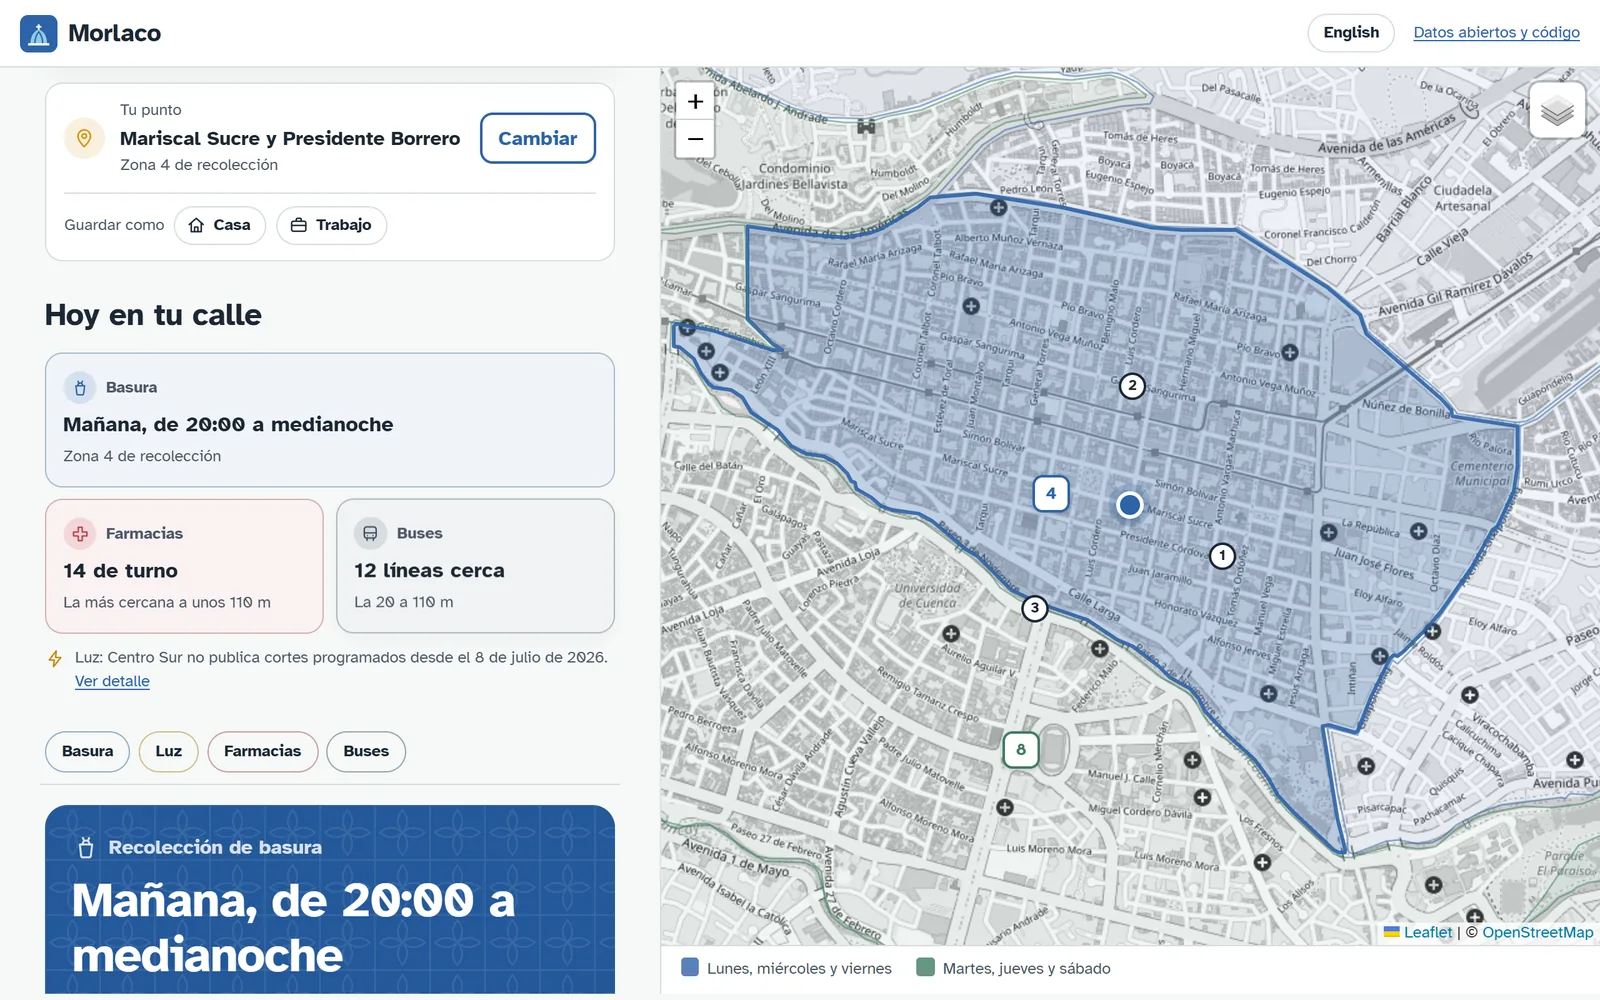
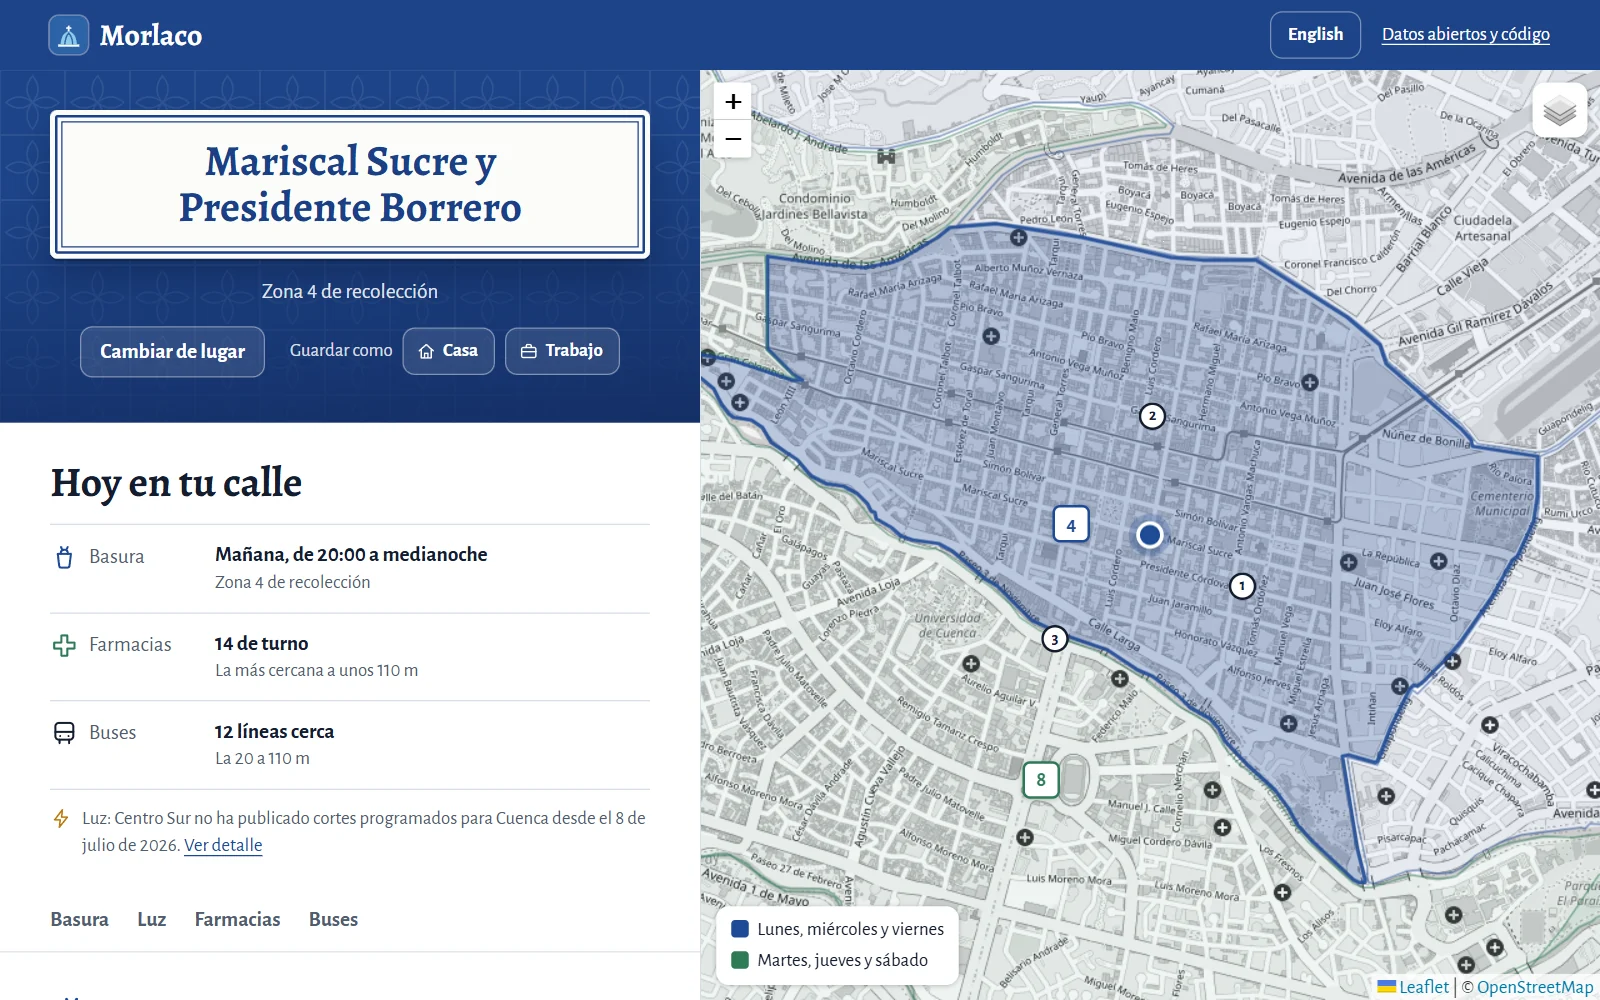
Capturas e imagen para compartir con el diseño nuevo
- README: la animación de la búsqueda y las capturas de escritorio y móvil
  muestran el muro de azulejo y el letrero; textos alternativos al día.
- Imagen que sale al compartir el enlace: la pregunta "¿Qué pasa hoy en tu
  calle?" en un letrero de cerámica sobre el muro azul, con las cúpulas.

diff --git a/web/index.html b/web/index.html
@@ -25,7 +25,7 @@
     <meta property="og:image:height" content="640" />
     <meta
       property="og:image:alt"
-      content="Morlaco: ¿Qué pasa hoy en tu calle? Las cúpulas de la Catedral Nueva de Cuenca sobre azulejos azules."
+      content="Morlaco: «¿Qué pasa hoy en tu calle?» en un letrero de cerámica sobre un muro de azulejos azules, con las cúpulas de la Catedral Nueva de Cuenca."
     />
     <meta name="twitter:card" content="summary_large_image" />
     <link rel="icon" href="icono.svg" type="image/svg+xml" />

diff --git a/README.md b/README.md
@@ -14,7 +14,7 @@
 
 <p align="center">
   <a href="https://nezusas.github.io/morlaco/web/">
-    <img src="docs/imagenes/busqueda.gif" alt="Se escribe «Calle Larga y Her» en Morlaco, se elige la sugerencia «Hermano Miguel» y aparece cuándo pasa el recolector, la semana de recolección y las paradas cercanas en el mapa" width="880">
+    <img src="docs/imagenes/busqueda.gif" alt="Se escribe «Calle Larga y Her» en Morlaco, se elige la sugerencia «Hermano Miguel» y aparece el letrero de la esquina, el resumen de hoy, cuándo pasa el recolector, las farmacias de turno y los buses, con el mapa al lado" width="880">
   </a>
 </p>
 
@@ -40,8 +40,8 @@ una app o un análisis.
 
 <table>
   <tr>
-    <td width="68%"><img src="docs/imagenes/escritorio.webp" alt="Morlaco en el escritorio: tarjeta azul con la recolección de basura de la zona 4 y el mapa de zonas de Cuenca"></td>
-    <td width="32%"><img src="docs/imagenes/movil-oscuro.webp" alt="Morlaco en el móvil con el modo oscuro: recolección de basura y suscripción al calendario"></td>
+    <td width="68%"><img src="docs/imagenes/escritorio.webp" alt="Morlaco en el escritorio: la esquina Mariscal Sucre y Presidente Borrero en un letrero de cerámica sobre un muro de azulejo azul, el resumen «Hoy en tu calle» y el mapa de la zona 4 de recolección"></td>
+    <td width="32%"><img src="docs/imagenes/movil-oscuro.webp" alt="Morlaco en el móvil con el modo oscuro: el letrero de la esquina y el resumen de basura, farmacias y buses"></td>
   </tr>
 </table>
 
